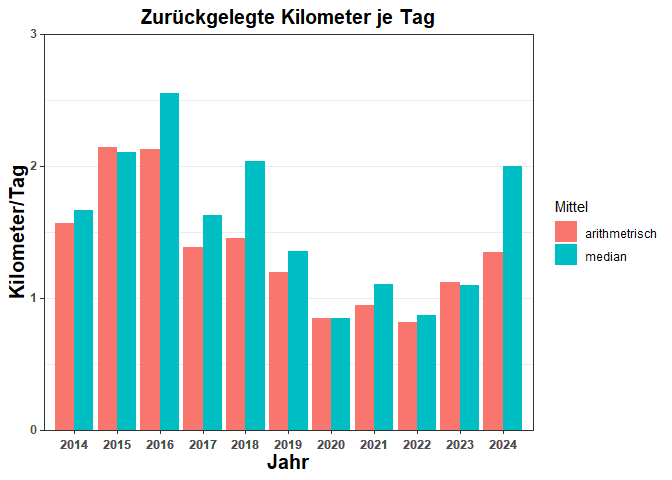
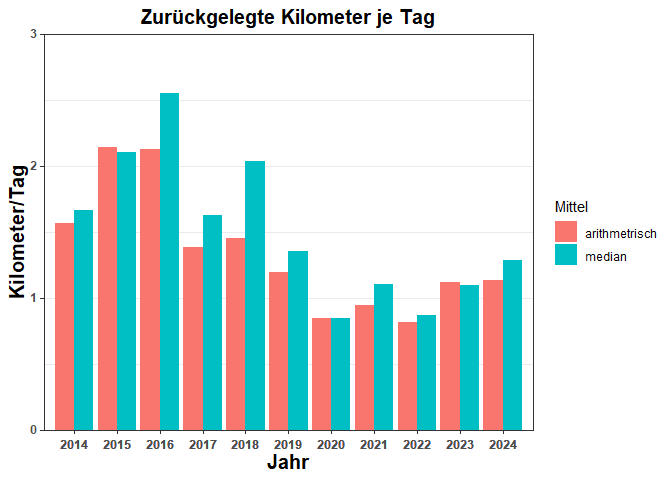
Markdown mit neuem Code aus dem Skript aktualisiert. Code-Duplikat in Markdown entfernt.
Tippfehler im jüngster Beobachtung des Datensatzes korrigiert, was zu Änderungen in vielen Datein führt.

Changed region(s): [[0.7188, 0.3438, 0.7812, 0.5938]]

diff --git a/Tankstatistik_Markdown_GitHub.md b/Tankstatistik_Markdown_GitHub.md
@@ -1,7 +1,7 @@
 Tankstatistik
 ================
 Bart R. Dutkiewicz
-25.03.2025
+27.03.2025
 
 ## Tank- und Verbrauchsstatistik eines Toyota Corolla Bj. 1998 ab Juni 2014
 
@@ -42,8 +42,7 @@ auf einem Mobiltelefon (Kilometerstände) erfasst:</b>
 - Anmerkungen zu Rabatten an der Kasse, Ungenauigkeiten etc. (nicht
   abgebildet)
 
-<b>Die folgende Analyse teilt sich in folgende Abschnitte (Tabs)
-auf:</b>
+<b>Die folgende Analyse teilt sich in folgende Abschnitte auf:</b>
 
 - <u>Datenaufbereitung:</u> die Rohdaten werden eingelesen und zur
   weiteren Verarbeitung vorbereitet. Lücken im Datensatz werden durch
@@ -183,7 +182,7 @@ auf:</b>
     ## 102  27     8 2024     17      9 39.01      1.719 67.06 456.000    150366
     ## 103   2    12 2024     10     13 37.77      1.719 64.93 474.200    150840
     ## 104  31    12 2024     18     53 41.32      1.749 72.27 495.400    151336
-    ## 105  13     1 2025      7     15 38.42      1.839 70.65      NA        NA
+    ## 105  13     3 2025      7     15 38.42      1.839 70.65      NA        NA
 
 Es ist zu sehen, dass der Datensatz aufgrund von verlorenen oder
 nicht-erhobenen Daten lückenhaft ist
@@ -292,15 +291,6 @@ df.raw$Euro.Tag <- df.raw$Euro / df.raw$Tage
 # Tag und Monat als Ganzzahlen speichern
 df.raw$Tag <- as.integer(df.raw$Tag)
 df.raw$Monat <- as.integer(df.raw$Monat)
-
-# Runden aller Spalten auf jeweils sinnvolle Dezimalstellen
-df.raw$km <- round(df.raw$km)
-df.raw$km_gesamt <- round(df.raw$km_gesamt)
-df.raw$Liter.km <- round(df.raw$Liter.km, 4)
-df.raw$Euro.km <- round(df.raw$Euro.km, 4)
-df.raw$km.Tag <- round(df.raw$km.Tag, 3)
-df.raw$Liter.Tag <- round(df.raw$Liter.Tag, 4)
-df.raw$Euro.Tag <- round(df.raw$Euro.Tag, 4)
 ```
 
 #### Aufbereitung, Teil 3
@@ -435,7 +425,7 @@ df.raw$Euro.Tag <- round(df.raw$Euro.Tag, 4)
     ## 102  27     8 2024     17      9 39.01      1.719 67.06 456    150366
     ## 103   2    12 2024     10     13 37.77      1.719 64.93 474    150840
     ## 104  31    12 2024     18     53 41.32      1.749 72.27 495    151336
-    ## 105  13     1 2025      7     15 38.42      1.839 70.65  NA        NA
+    ## 105  13     3 2025      7     15 38.42      1.839 70.65  NA        NA
     ##          Datum Tage Liter.km Euro.km  km.Tag Liter.Tag Euro.Tag
     ## 1   2014-06-20   25   0.0909  0.1363  17.608    1.6000   2.4000
     ## 2   2014-07-15   38   0.0767  0.1203  13.242    1.0155   1.5934
@@ -540,8 +530,8 @@ df.raw$Euro.Tag <- round(df.raw$Euro.Tag, 4)
     ## 101 2024-07-20   38   0.0741  0.1408  14.593    1.0818   2.0545
     ## 102 2024-08-27   97   0.0855  0.1471   4.701    0.4022   0.6913
     ## 103 2024-12-02   29   0.0796  0.1369  16.352    1.3024   2.2390
-    ## 104 2024-12-31   13   0.0834  0.1459  38.108    3.1785   5.5592
-    ## 105 2025-01-13   NA       NA      NA      NA        NA       NA
+    ## 104 2024-12-31   72   0.0834  0.1459   6.881    0.5739   1.0037
+    ## 105 2025-03-13   NA       NA      NA      NA        NA       NA
 
 #### Datenstruktur des rekonstruierten Datensatzes
 
@@ -573,13 +563,20 @@ str(df.raw)
 Trennung des Datensatzes in eine Exportvariante und eine
 Auswertungsvariante. Die unvollständige jüngste Beobachtung wird für die
 weitere Auswertung nicht berücksichtigt und aus dem Auswertungsdatensatz
-entfernt.
+entfernt. Für die Exportvariante werden die in R üblichen Punkte in den
+Spaltennamen durch Unterstriche ersetzt, da erstere z.B. in SQL und
+Python Probleme verursachen.
 
 ``` r
-# Aufbereiteter Datensatz inkl. unv. jüngster Beobachtung für den Export
+## Aufbereiteter Datensatz inkl. unv. jüngster Beobachtung für den Export
 df.export <- df.raw
 
-# Aufbereiteter Datensatz exkl. unv. jüngster Beobachtung für die weitere Auswertung
+# In Spaltennamen Punkt durch Unterstrich ersetzen
+names(df.export) <- gsub(x = names(df.export), pattern = "\\.", replacement = "_")
+#Punkte in Spaltennamen sind in R üblich, jedoch in anderen Werkzeugen wie Python problematisch.
+
+
+## Aufbereiteter Datensatz exkl. unv. jüngster Beobachtung für die weitere Auswertung
 df.raw <- df.raw[-nrow(df.raw), ]
 df <- df.raw
 rm(df.raw)
@@ -597,7 +594,7 @@ und Posit.Cloud zu Verfügung gestellt.
 
 | Liter | Euro |    km | Tage | Betankungen |
 |------:|-----:|------:|-----:|------------:|
-|  3582 | 5205 | 42954 | 3860 |         104 |
+|  3582 | 5205 | 42954 | 3919 |         104 |
 
 Gesamtsummen seit Juni 2014
 
@@ -629,12 +626,12 @@ In den zwei rechten Spalten sind:
 | Euro_Liter |          1.45 |   1.42 |              -0.03 |                 -2.19 |
 | Euro       |         50.04 |  50.84 |               0.80 |                  1.58 |
 | km         |        413.02 | 448.50 |              35.48 |                  7.91 |
-| Tage       |         37.12 |  31.00 |              -6.12 |                -19.73 |
+| Tage       |         37.68 |  31.50 |              -6.18 |                -19.63 |
 | Liter.km   |          0.08 |   0.08 |               0.00 |                  0.84 |
 | Euro.km    |          0.12 |   0.11 |              -0.01 |                 -6.88 |
-| km.Tag     |         11.13 |  14.47 |               3.34 |                 23.08 |
-| Liter.Tag  |          0.93 |   1.22 |               0.29 |                 23.73 |
-| Euro.Tag   |          1.35 |   1.64 |               0.29 |                 17.79 |
+| km.Tag     |         10.96 |  14.24 |               3.28 |                 23.02 |
+| Liter.Tag  |          0.91 |   1.20 |               0.28 |                 23.67 |
+| Euro.Tag   |          1.33 |   1.61 |               0.29 |                 17.72 |
 
 Gesamtmittel
 
@@ -687,7 +684,7 @@ Jahressummen
 | 2021 | 37.61 | 1.62 | 60.87 | 492.80 | 64.20 | 0.08 | 0.12 | 0.95 | 0.59 | 0.95 |
 | 2022 | 39.25 | 1.87 | 73.08 | 498.50 | 89.50 | 0.08 | 0.15 | 0.82 | 0.44 | 0.82 |
 | 2023 | 39.09 | 1.84 | 72.10 | 484.00 | 64.33 | 0.08 | 0.15 | 1.12 | 0.61 | 1.12 |
-| 2024 | 39.66 | 1.79 | 71.20 | 495.50 | 52.67 | 0.08 | 0.14 | 1.35 | 0.75 | 1.35 |
+| 2024 | 39.66 | 1.79 | 71.20 | 495.50 | 62.50 | 0.08 | 0.14 | 1.14 | 0.63 | 1.14 |
 
 Jahresmittel (arithmetrisch)
 
@@ -705,7 +702,7 @@ Jahresmittel (arithmetrisch)
 | 2021 | 38.50 |       1.61 | 63.01 | 491.0 | 57.0 |     0.08 |    0.13 |   1.11 |      0.68 |     1.11 |
 | 2022 | 39.25 |       1.85 | 72.68 | 503.5 | 83.5 |     0.08 |    0.14 |   0.87 |      0.47 |     0.87 |
 | 2023 | 38.84 |       1.86 | 72.44 | 483.5 | 66.0 |     0.08 |    0.15 |   1.10 |      0.59 |     1.10 |
-| 2024 | 39.52 |       1.77 | 70.98 | 484.5 | 35.5 |     0.08 |    0.15 |   2.00 |      1.11 |     2.00 |
+| 2024 | 39.52 |       1.77 | 70.98 | 484.5 | 55.0 |     0.08 |    0.15 |   1.29 |      0.72 |     1.29 |
 
 Jahresmittel (median)
 
@@ -723,7 +720,7 @@ Jahresmittel (median)
 | 2021 | 0.89 | -0.01 | 2.14 | -1.80 | -7.20 | 0.00 | 0.00 | 0.16 | 0.09 | 0.16 |
 | 2022 | 0.00 | -0.01 | -0.39 | 5.00 | -6.00 | 0.00 | 0.00 | 0.05 | 0.03 | 0.05 |
 | 2023 | -0.25 | 0.01 | 0.33 | -0.50 | 1.67 | 0.00 | 0.00 | -0.02 | -0.02 | -0.02 |
-| 2024 | -0.15 | -0.02 | -0.22 | -11.00 | -17.17 | 0.00 | 0.00 | 0.65 | 0.36 | 0.65 |
+| 2024 | -0.15 | -0.02 | -0.22 | -11.00 | -7.50 | 0.00 | 0.00 | 0.15 | 0.08 | 0.15 |
 
 Absolute Differenz Median - Arith. Mittel
 
@@ -741,7 +738,7 @@ Absolute Differenz Median - Arith. Mittel
 | 2021 | 2.30 | -0.50 | 3.40 | -0.37 | -12.63 | 2.66 | 3.75 | 14.23 | 13.26 | 14.23 |
 | 2022 | -0.01 | -0.67 | -0.54 | 0.99 | -7.19 | -1.02 | -1.55 | 6.20 | 6.69 | 6.20 |
 | 2023 | -0.66 | 0.81 | 0.46 | -0.10 | 2.53 | -0.55 | 0.56 | -2.12 | -3.26 | -2.12 |
-| 2024 | -0.37 | -1.13 | -0.31 | -2.27 | -48.36 | 1.86 | 1.91 | 32.38 | 32.34 | 32.38 |
+| 2024 | -0.37 | -1.13 | -0.31 | -2.27 | -13.64 | 1.86 | 1.91 | 11.72 | 11.67 | 11.72 |
 
 Relative Differenz Median - Arith. Mittel in Prozent
 
@@ -864,7 +861,7 @@ Zunächst wird ein Blick auf die akkumulierten Werte geworfen.
 
 | Liter | Euro |    km | Tage | Betankungen |
 |------:|-----:|------:|-----:|------------:|
-|  3582 | 5205 | 42954 | 3860 |         104 |
+|  3582 | 5205 | 42954 | 3919 |         104 |
 
 Gesamtsummen seit Juni 2014
 
